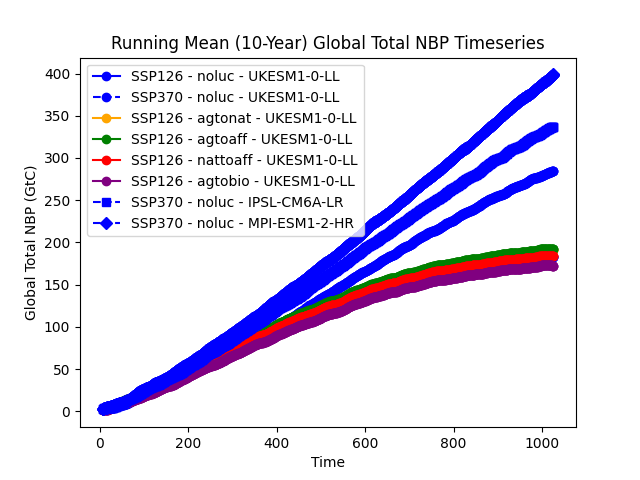
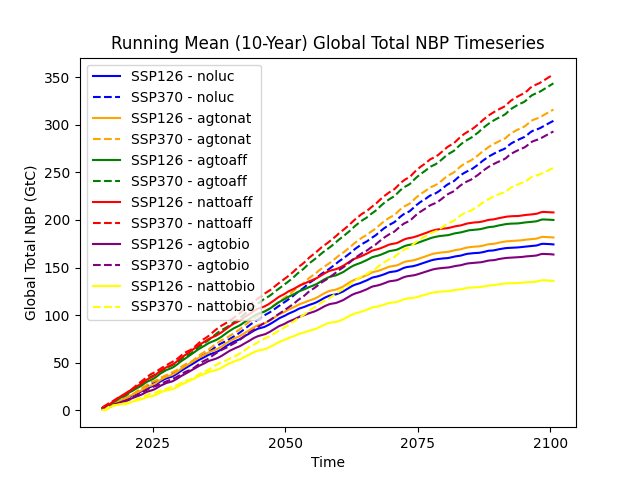
Add postprocessing for ESM2025 deliverable

diff --git a/Plot_Experiments.py b/Plot_Experiments.py
@@ -2,10 +2,10 @@ import xarray as xr
 import nc_time_axis
 import matplotlib.pyplot as plt
 
-models = ["UKESM1-0-LL", "IPSL-CM6A-LR", "MPI-ESM1-2-HR"] #IPSL-CM6A-LR, MPI-ESM1-2-HR, UKESM1-0-LL
-scenarios = ["SSP126", "SSP370"]
-experiments = ["noluc", "agtonat", "agtoaff", "nattoaff", "agtobio"]
-colors = ["blue", "orange", "green", "red", "purple"]
+models = ["UKESM1-0-LL"] #IPSL-CM6A-LR, MPI-ESM1-2-HR, UKESM1-0-LL
+scenarios = ["SSP126", "SSP370"] #"SSP126",
+experiments = ["noluc", "agtonat", "agtoaff", "nattoaff", "agtobio", "nattobio"]
+colors = ["blue", "orange", "green", "red", "purple", "yellow"]
 line_styles = ["-", "--"]
 markers = ["o", "s", "D"]
 
@@ -60,7 +60,7 @@ for variable in variables:
 
                     # Plot the timeseries with the corresponding color and label
                     # var_total_rolling.plot(ax=ax, label=f"{scenario} - {experiment}", color=colors[i], linestyle=line_styles[j], marker=markers[k])
-                     var_total_rolling.plot(ax=ax, label=f"{scenario} - {experiment}", color=colors[i], linestyle=line_styles[j])
+                    var_total_rolling.plot(ax=ax, label=f"{scenario} - {experiment}", color=colors[i], linestyle=line_styles[j])
 
                 except FileNotFoundError:
                     print(f"File not found for {experiment} - {scenario} - {model}. Skipping...")
